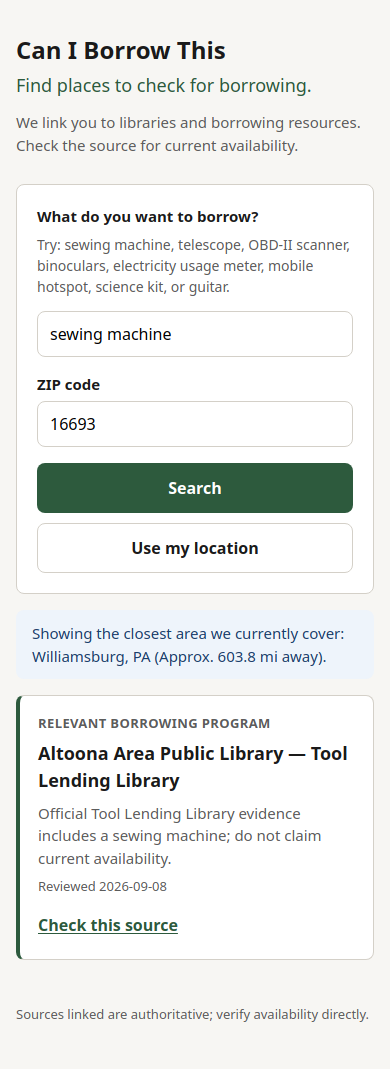
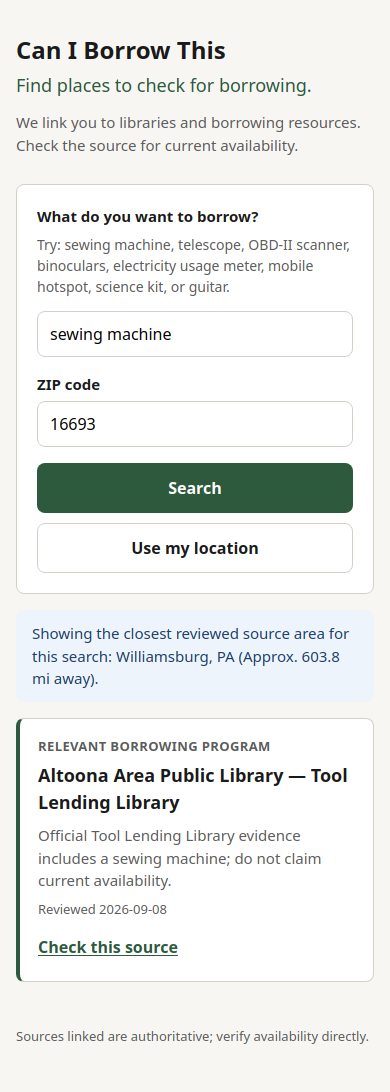
fix: truthful object-aware GEO context copy (Pass 006 Correction 1)
Replace misleading closest-area-we-cover wording with search-specific
copy for distant object-aware GEO. Render national-only trust message
once without duplicate disclaimer.

diff --git a/tests/pass006.test.js b/tests/pass006.test.js
@@ -7,6 +7,7 @@ import { search, MESSAGES } from '../js/search.js';
 import {
   nearestEligibleCoverageZip,
   resolveGeoSearchTarget,
+  formatGeoCoverageContext,
   GEO_CONTEXT_THRESHOLD_MI,
 } from '../js/geo.js';
 import { normalizeObject } from '../js/normalize.js';
@@ -109,6 +110,7 @@ describe('P6-04 binoculars national-only GEO path', () => {
     });
     assert.equal(out.status, 'ok');
     assert.match(out.message, /local-area match/i);
+    assert.equal(out.disclaimers.length, 0);
     assert.ok(out.results.some((r) => r.sourceId === 'S4_LIBRARY_TELESCOPE_PROGRAM'));
     assert.ok(out.results.every((r) => r.class === RESULT_CLASS.RESOURCE));
   });
@@ -219,6 +221,20 @@ describe('P6-08 ranking privacy accessibility regressions', () => {
     assert.match(html, /for="object-input"/);
     assert.match(html, /for="zip-input"/);
     assert.match(html, /viewport/);
+  });
+});
+
+describe('P6-10 object-aware distant GEO context copy', () => {
+  it('uses truthful search-specific wording for Huntsville sewing machine', () => {
+    const target = resolveGeoSearchTarget(
+      FORT_PAYNE_NEAREST_COORDS.lat,
+      FORT_PAYNE_NEAREST_COORDS.lon,
+      'sewing machine',
+    );
+    const context = formatGeoCoverageContext(target.label, target.distanceMi);
+    assert.match(context, /closest reviewed source area for this search/i);
+    assert.doesNotMatch(context, /closest area we currently cover/i);
+    assert.match(context, /Williamsburg/i);
   });
 });
 

diff --git a/tests/pass004.test.js b/tests/pass004.test.js
@@ -56,7 +56,8 @@ describe('P4-03 geo beyond old 15-mile radius', () => {
     assert.equal(out.status, 'ok');
     assert.ok(out.results.length > 0);
     const context = formatGeoCoverageContext(nearest.label, nearest.distanceMi);
-    assert.match(context, /closest area we currently cover/);
+    assert.match(context, /closest reviewed source area for this search/);
+    assert.doesNotMatch(context, /closest area we currently cover/i);
     assert.match(context, /Approx\./);
   });
 });

diff --git a/js/geo.js b/js/geo.js
@@ -158,7 +158,7 @@ export function resolveGeoSearchTarget(lat, lon, objectText) {
 
 export function formatGeoCoverageContext(label, distanceMi) {
   if (distanceMi <= GEO_CONTEXT_THRESHOLD_MI) return null;
-  return `Showing the closest area we currently cover: ${label} (${formatApproxDistance(distanceMi)} away).`;
+  return `Showing the closest reviewed source area for this search: ${label} (${formatApproxDistance(distanceMi)} away).`;
 }
 
 export function getZipCentroid(zip) {

diff --git a/js/search.js b/js/search.js
@@ -135,7 +135,7 @@ export function search({ objectText, zip, locationMode = 'ZIP', geoDistanceMi, g
       status: 'ok',
       message: MESSAGES.noLocalReviewedMatch,
       results: resources,
-      disclaimers: [MESSAGES.noLocalReviewedMatch],
+      disclaimers: [],
       objectClass,
     };
   }
